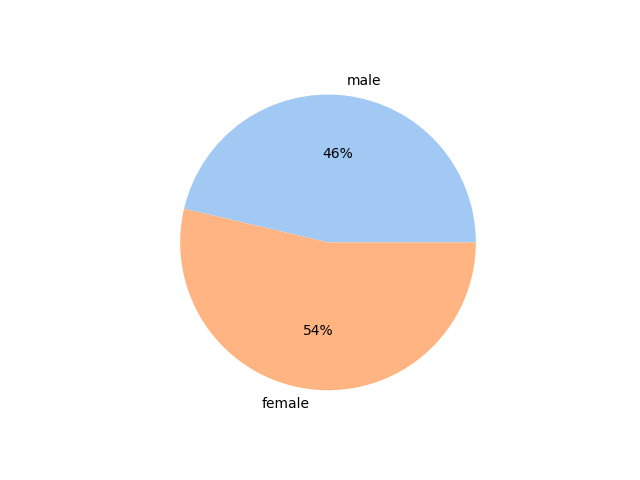
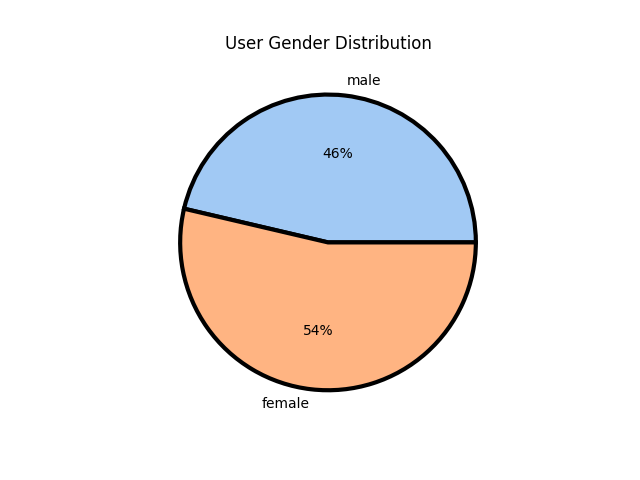
revising userDestination

diff --git a/userDestination.py b/userDestination.py
@@ -29,7 +29,9 @@ def userDestination():
 
     # plot a pie chart of the country and count
     palette_color = sns.color_palette('pastel')[0:5]
-    plt.pie(destinationCount[0:5], labels=country[0:5], colors=palette_color, autopct='%.0f%%', pctdistance = 0.75, shadow=True,wedgeprops=wedgeprops, startangle=90)
+    plt.pie(destinationCount[0:5], labels=country[0:5], colors=palette_color, autopct='%.0f%%', pctdistance = 0.75, shadow=True,wedgeprops={"edgecolor":"black",
+                             'linewidth': 3,
+                            'antialiased': True})
     plt.title('User Destination Distribution')
 
     # save chart as image

diff --git a/userGender.py b/userGender.py
@@ -34,7 +34,9 @@ def userGender():
     palette_color = sns.color_palette('pastel')[0:2]
     
     # plotting data on chart
-    plt.pie(userGender, labels=keys, colors=palette_color, autopct='%.0f%%')
+    plt.pie(userGender, labels=keys, colors=palette_color, wedgeprops={"edgecolor":"black",
+                             'linewidth': 3,
+                            'antialiased': True}, autopct='%.0f%%')
     plt.title("User Gender Distribution")
     
     # displaying chart

diff --git a/cli-tool.py b/cli-tool.py
@@ -1,10 +1,4 @@
 import typer
-import pandas as pd
-import numpy as np
-import matplotlib.pyplot as plt
-import seaborn as sns
-import os
-import sqlite3
 from userGender import userGender
 from userAge import userAge
 from userLanguage import userLanguage

diff --git a/README.md b/README.md
@@ -65,7 +65,6 @@ SELECT language, COUNT(language) AS lg_num FROM train_user WHERE language <> "en
 
 I used the typer library in python to build a command-line interface to retrieve the user information of airbnb. 
 
-
 ## Way to use
 
 
